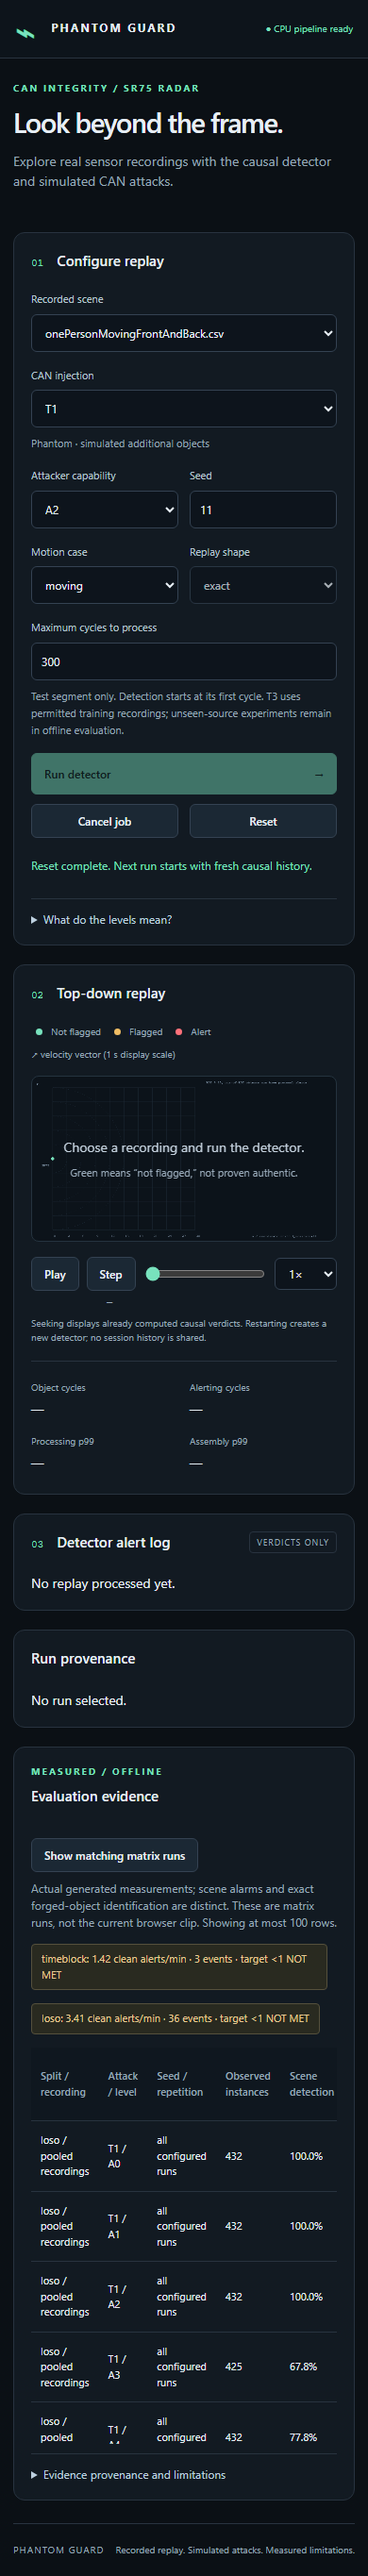
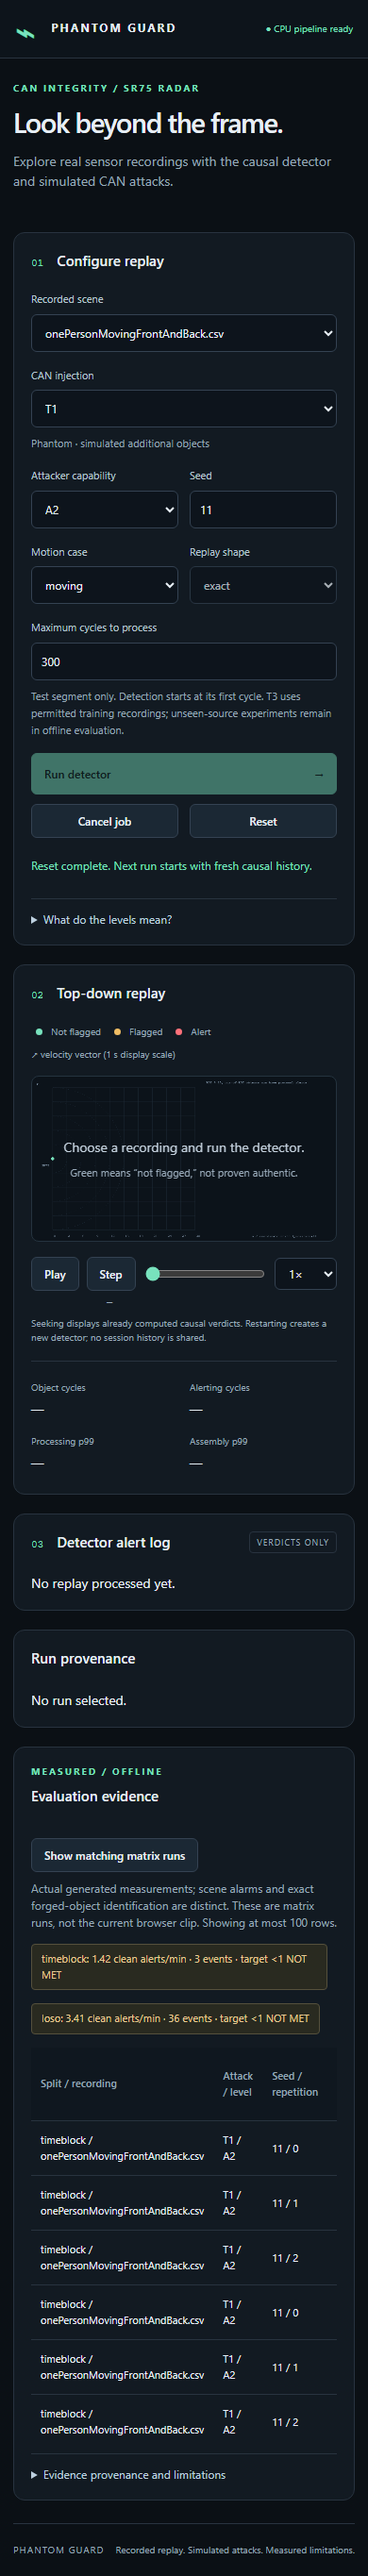
Record final wheel, browser and regenerated-artifact validation

Changed region(s): [[0.0923, 0.7784, 0.5538, 0.9652], [0.7385, 0.8095, 0.8923, 0.9341], [0.6154, 0.8095, 0.6769, 0.9652]]

diff --git a/docs/pipeline.md b/docs/pipeline.md
@@ -89,3 +89,17 @@ in the final handoff identify machine, OS, workers and scope.
 Selected report evidence is tracked in `docs/results`; disposable jobs stay in
 runs. For publication copy only completed script outputs deliberately, preserve
 their manifest/config/artifact/source hashes, and inspect staging before commit.
+
+## Measured preparation and serving cost
+
+The latest Windows validation on a 32-logical-CPU workstation completed baseline,
+all five model bundles and calibration in about 232 seconds (30, 70 and 132 seconds).
+Single-worker clean evaluation took 47 seconds; the full 24-worker attack sweep
+took 1,987 seconds. These are observed workstation timings, not server guarantees.
+The documented server commands use one or two evaluation workers to bound memory.
+Full unit suites took 58–87 seconds on the tested Windows/WSL environments.
+
+In the 2-CPU/2-GiB container, representative 600-cycle T1–T4 jobs took 9.3–9.8
+seconds. A concurrent activity sample used 145 MiB; this is an observation, not a
+peak-memory bound. The container and scheduler enforce their documented limits.
+Serving uses restored models; these jobs never perform training or calibration.

diff --git a/docs/results/README.md b/docs/results/README.md
@@ -11,6 +11,9 @@ normal-wheel checks on Windows and Ubuntu 26.04.1 WSL, real browser/API checks
 and separate single-worker latency. A subsequent viewer path fix prevents a
 caller-directory recording from overriding configured inputs; it does not alter
 detector, attacker, features, thresholds or metric calculations.
+Final full suites passed 170 tests with zero skips on Windows and Ubuntu WSL.
+Both installed-wheel smoke matrices match the full sweep's 36 corresponding
+layer rows, including actual AE/IF AUROCs where available.
 
 Results remain 1.42 clean alerts/minute on time-block test and 3.41 on LOSO:
 **the under-one target is not met**. There are 2,411 eligible attack runs, 198
